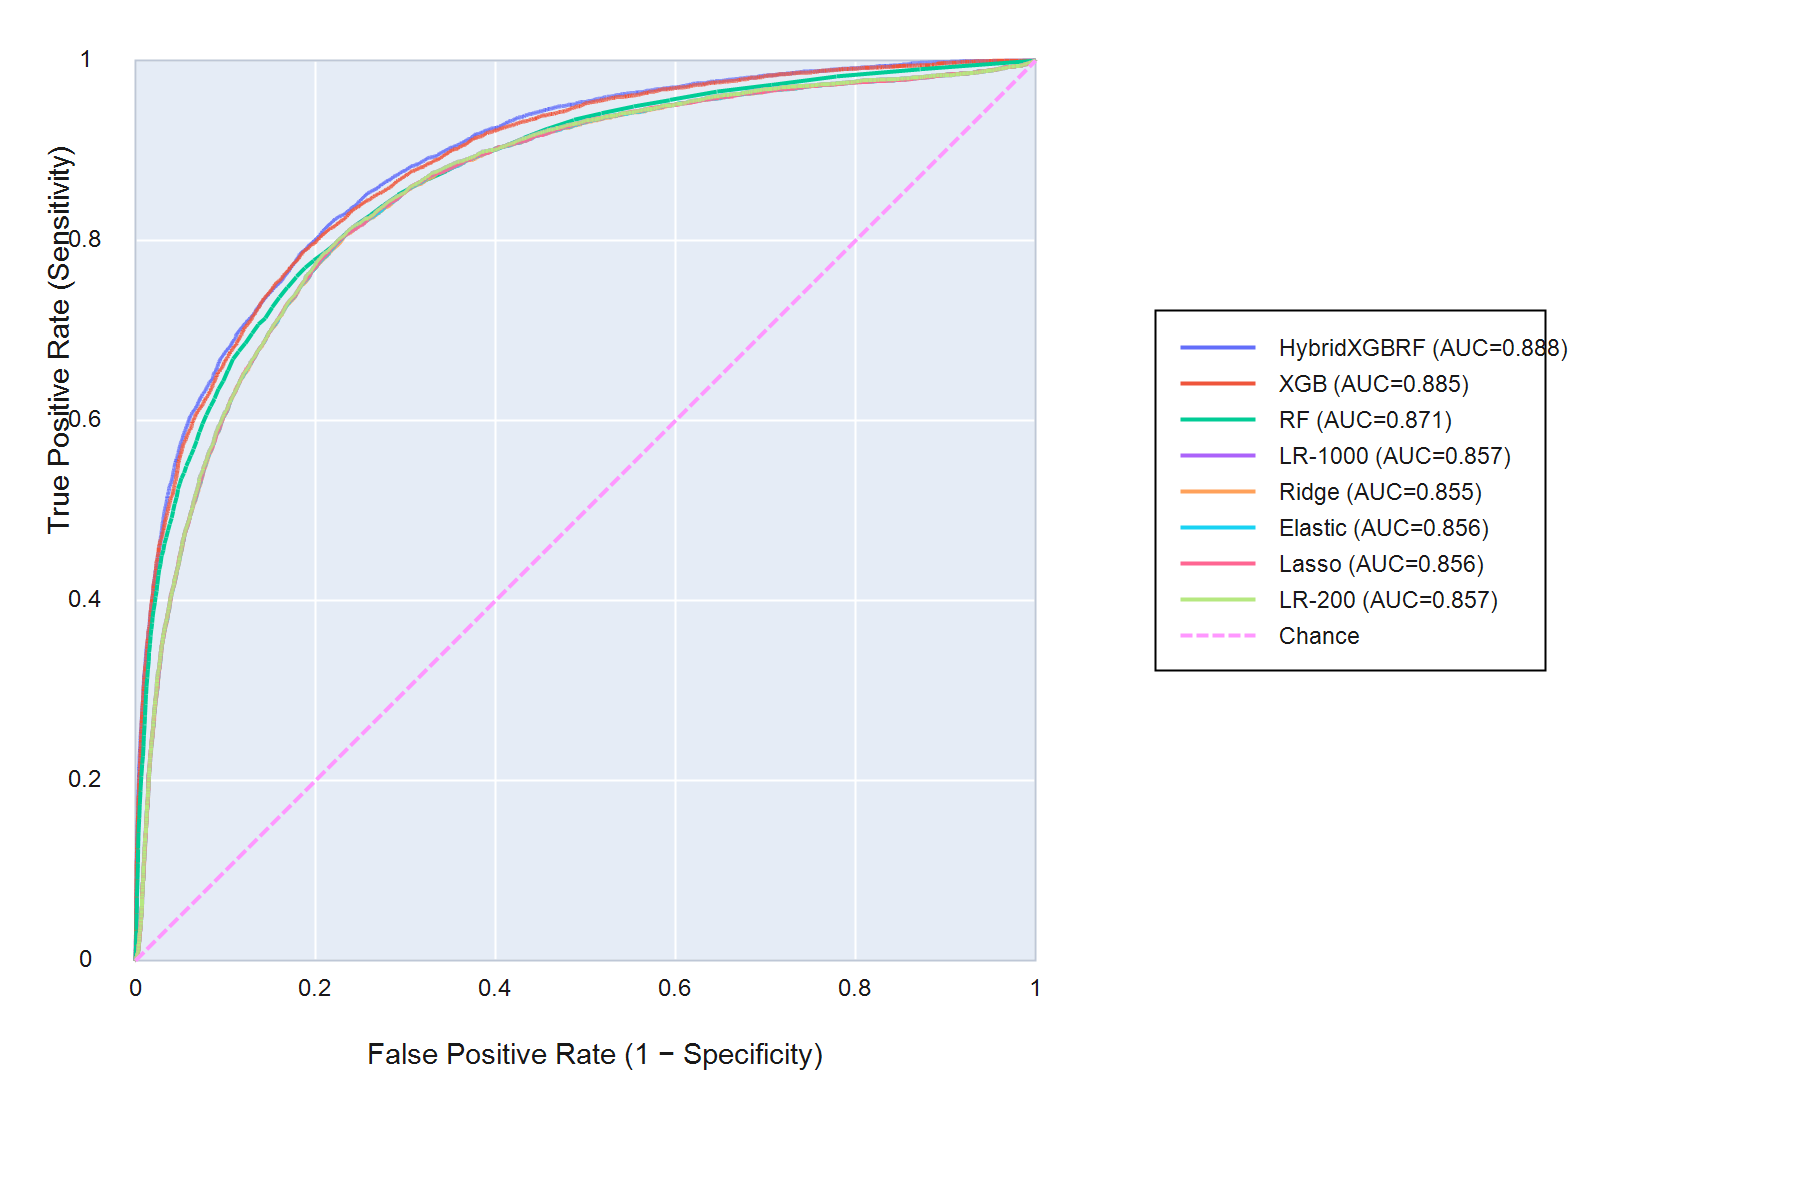
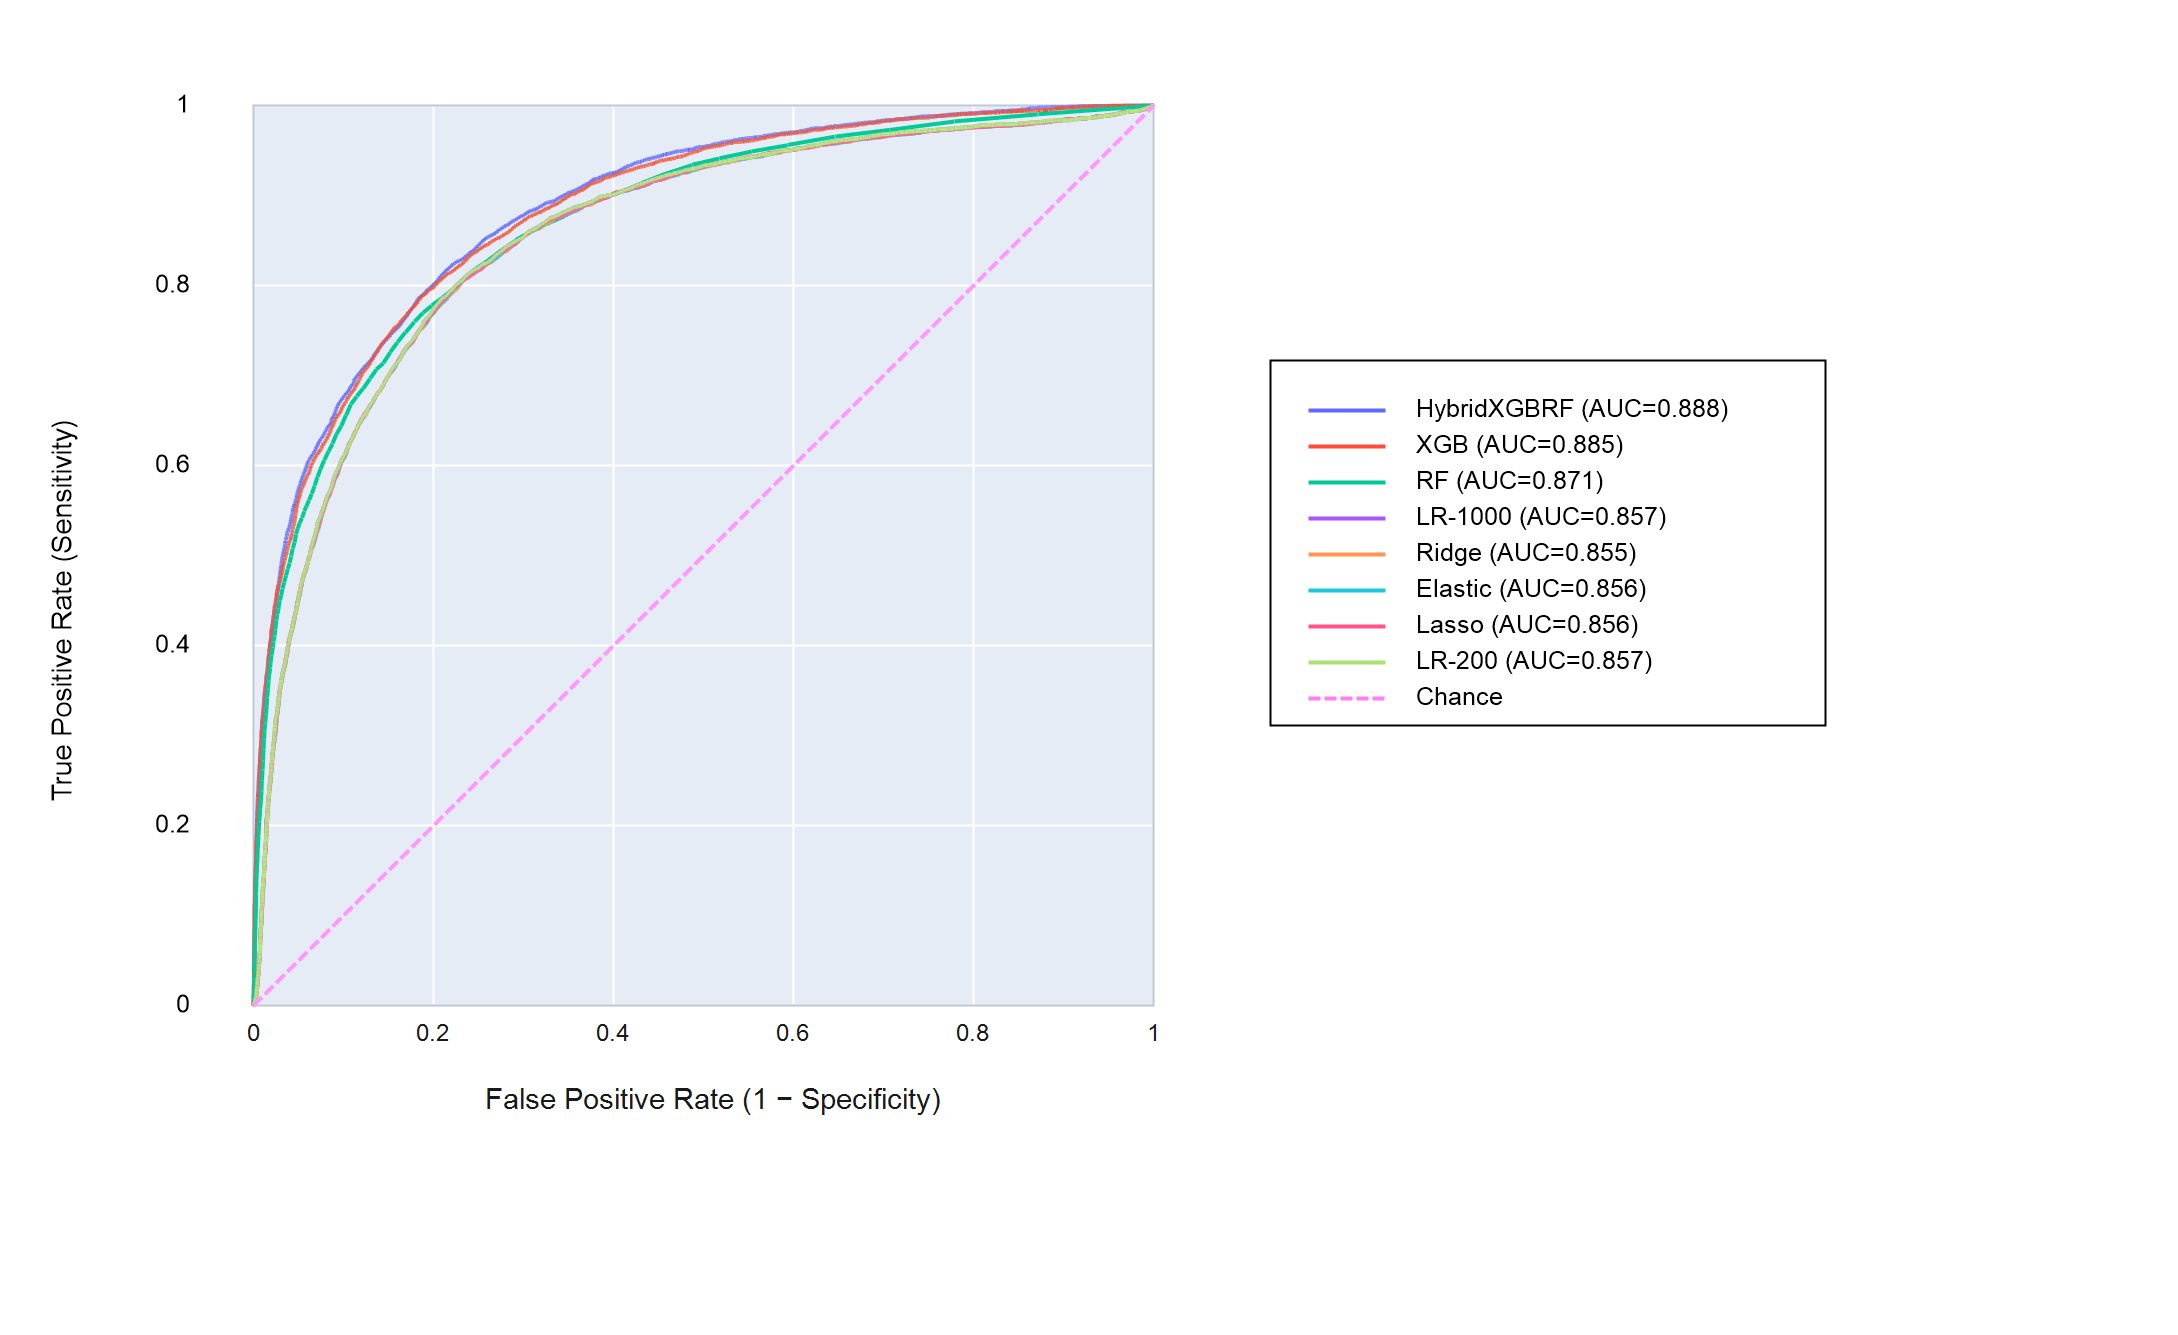
fix AUROC_internal

diff --git a/Revision/20260603/0603_逐條修正結果與圖表對應.md b/Revision/20260603/0603_逐條修正結果與圖表對應.md
@@ -1,7 +1,17 @@
 # 0603 請蔡老師協助部分：逐條修正結果
 
-來源 PDF：`0603_請蔡老師協助的部分.pdf`
-最後完整結果基準：`RESULTS` / `Revision\20260523`，development cohort N = 23,901；external validation N = 6,216；excluded subjects N = 19,756。
+來源 PDF：[0603_請蔡老師協助的部分.pdf](./0603_%E8%AB%8B%E8%94%A1%E8%80%81%E5%B8%AB%E5%8D%94%E5%8A%A9%E7%9A%84%E9%83%A8%E5%88%86.pdf)
+
+最後完整結果基準：[RESULTS](../../RESULTS) / [Revision/20260523](../20260523)，development cohort N = 23,901；external validation N = 6,216；excluded subjects N = 19,756。
+
+資料與程式盤查結果：
+
+- 主要 revision 產出程式：[revision_generate_results.py](../../revision_generate_results.py)
+- 0523 逐題補件產出程式：[generate_0523_revision_outputs.py](../20260523/generate_0523_revision_outputs.py)
+- 原始投稿分析程式：[jubodeath_v9_puredata_paper.py](../../jubodeath_v9_puredata_paper.py)
+- Development cohort Google Sheet：[training_data_1014](https://docs.google.com/spreadsheets/d/1qljyp9lq3QsZ7O2O7FQxm7taEWQi3F3bZgNMcQ7NJeE/edit?usp=sharing)，程式中 worksheet name 為 `training_data_1014`
+- External validation Google Sheet：[external_validation_1014](https://docs.google.com/spreadsheets/d/1NFAhP8NUVsxzEq55siFA0yHvnXY5GWqiKGSOKC4y1Qg/edit?usp=sharing)，程式中 worksheet name 為 `external_validation_1014`
+- 補充資料來源：[DATA/area_size.xlsx](../../DATA/area_size.xlsx)、[Revision/20260516/機構區域與大小.xlsx](../20260516/%E6%A9%9F%E6%A7%8B%E5%8D%80%E5%9F%9F%E8%88%87%E5%A4%A7%E5%B0%8F.xlsx)、[Revision/20260523/analysis_data_filtering_out_included_ADL_missing_0523.csv](../20260523/analysis_data_filtering_out_included_ADL_missing_0523.csv)
 
 ## 1. 排除個案基本 data 分析：補 2 個 P value
 
@@ -14,8 +24,9 @@
 
 對應檔案：
 
-- `0603_added_p_values.csv`
-- `0603_included_vs_excluded_with_added_pvalue_source.xlsx`
+- [0603_added_p_values.csv](./0603_added_p_values.csv)
+- [0603_included_vs_excluded_insufficient_followup_with_p.xlsx](./0603_included_vs_excluded_insufficient_followup_with_p.xlsx)：已由 [RESULTS/tables/included_vs_excluded_insufficient_followup_with_p.xlsx](../../RESULTS/tables/included_vs_excluded_insufficient_followup_with_p.xlsx) 複製到本資料夾，供 0603 修正包直接開啟。
+- 同一表格也可在 [Revision/20260523/included_vs_excluded_insufficient_followup_with_p.xlsx](../20260523/included_vs_excluded_insufficient_followup_with_p.xlsx) 與 [Revision/01_需蔡老師補做資料表/included_vs_excluded_insufficient_followup_with_p.xlsx](../01_%E9%9C%80%E8%94%A1%E8%80%81%E5%B8%AB%E8%A3%9C%E5%81%9A%E8%B3%87%E6%96%99%E8%A1%A8/included_vs_excluded_insufficient_followup_with_p.xlsx) 找到。
 
 ## 2. Calibration plots 加 predicted probability histogram 後，調整軸標題、刻度與圖例順序
 
@@ -23,23 +34,189 @@
 
 對應圖檔：
 
-- `0603_internal_cv_calibration_with_histogram_revised.png`
-- `0603_external_validation_calibration_with_histogram_revised.png`
+- [0603_internal_cv_calibration_with_histogram_revised.png](./0603_internal_cv_calibration_with_histogram_revised.png)
+- [0603_external_validation_calibration_with_histogram_revised.png](./0603_external_validation_calibration_with_histogram_revised.png)
 
 ## 3. Table 3 已更新，抽換後面的 Figure 1 ROC 與 confusion matrix
 
-已用最後版 ROC HTML 內嵌資料重畫 Figure 1，主圖比例改為接近 1:1，X/Y 軸標題改回原投稿版：`False Positive Rate (1 − Specificity)` / `True Positive Rate (Sensitivity)`；右側圖例順序與縮寫、線條顏色均依原始文章版本，只更新 AUC 與曲線數據。
+已用最後版 ROC HTML 內嵌資料重畫 Figure 1，主圖比例改為接近 1:1，X/Y 軸標題改回原投稿版：`False Positive Rate (1 - Specificity)` / `True Positive Rate (Sensitivity)`；右側圖例順序與縮寫、線條顏色均依原始文章版本，只更新 AUC 與曲線數據。
+
+後續檢查發現 AUROC internal 圖的 Y 軸標題與刻度太近、且右側圖例框線裁到第一列文字，因此在同一資料夾內以正式輸出圖檔重新修正：重畫 Y 軸刻度與標題，並放寬圖例框。修圖過程程式碼保留於下方「修圖過程與程式碼」。
 
 Confusion matrix 使用最後完整結果版 PNG，已複製到本資料夾供抽換使用；數值與 Table 3 目前最後版一致。
 
 對應圖檔：
 
-- `0603_Figure1_ROC_internal_cv_revised_1to1.png`
-- `0603_internal_cv_confusion_matrices_final.png`
-- `0603_external_validation_confusion_matrices_final.png`
+- [0603_Figure1_ROC_internal_cv_revised_1to1.png](./0603_Figure1_ROC_internal_cv_revised_1to1.png)
+- [0603_internal_cv_confusion_matrices_final.png](./0603_internal_cv_confusion_matrices_final.png)
+- [0603_external_validation_confusion_matrices_final.png](./0603_external_validation_confusion_matrices_final.png)
+
+## 4. AUROC internal 圖修圖過程與程式碼
+
+修圖流程另存成可開啟的 PowerShell 檔：[0603_fix_AUROC_internal_layout.ps1](./0603_fix_AUROC_internal_layout.ps1)。下方保留逐步修正過程，包含檢查失敗的中間版與最後採用的正式版。
+
+### 4.1 第一次檢查：只加外框白邊
+
+第一次處理先將圖四周加白邊，避免插入 Word/PDF 時外緣被裁切。但檢查後發現 Y 軸標題仍與刻度文字太近，因此此版不作為最後版。
+
+```powershell
+$src = 'c:\GitHub\AI4JUBO\Revision\20260603\0603_Figure1_ROC_internal_cv_revised_1to1.png'
+$backup = 'c:\GitHub\AI4JUBO\Revision\20260603\0603_Figure1_ROC_internal_cv_revised_1to1_original.png'
+
+Add-Type -AssemblyName System.Drawing
+if (-not (Test-Path -LiteralPath $backup)) {
+  Copy-Item -LiteralPath $src -Destination $backup
+}
+
+$img = [System.Drawing.Image]::FromFile($backup)
+$left = 90; $top = 70; $right = 100; $bottom = 100
+$bmp = New-Object System.Drawing.Bitmap ($img.Width + $left + $right), ($img.Height + $top + $bottom)
+$g = [System.Drawing.Graphics]::FromImage($bmp)
+$g.Clear([System.Drawing.Color]::White)
+$g.DrawImage($img, $left, $top, $img.Width, $img.Height)
+$g.Dispose()
+$img.Dispose()
+$bmp.Save($src, [System.Drawing.Imaging.ImageFormat]::Png)
+$bmp.Dispose()
+```
+
+### 4.2 第二次檢查：重畫 Y 軸標題與刻度
+
+第二次改用原始圖作為底圖，裁掉原本太靠左且會重疊的 Y 軸標題與刻度，再重新畫出 Y 軸刻度與標題。檢查後 Y 軸問題已解決，但圖例第一列文字仍被框線裁到。
+
+```powershell
+$src = 'c:\GitHub\AI4JUBO\Revision\20260603\0603_Figure1_ROC_internal_cv_revised_1to1_original.png'
+$out = 'c:\GitHub\AI4JUBO\Revision\20260603\0603_Figure1_ROC_internal_cv_revised_1to1.png'
+
+Add-Type -AssemblyName System.Drawing
+$img = [System.Drawing.Image]::FromFile($src)
+$cropX = 122; $cropY = 0; $cropW = $img.Width - $cropX; $cropH = $img.Height
+$leftPad = 240; $topPad = 45; $rightPad = 90; $bottomPad = 90
+$bmp = New-Object System.Drawing.Bitmap ($leftPad + $cropW + $rightPad), ($topPad + $cropH + $bottomPad)
+$g = [System.Drawing.Graphics]::FromImage($bmp)
+$g.Clear([System.Drawing.Color]::White)
+$g.SmoothingMode = [System.Drawing.Drawing2D.SmoothingMode]::AntiAlias
+$g.InterpolationMode = [System.Drawing.Drawing2D.InterpolationMode]::HighQualityBicubic
+$g.TextRenderingHint = [System.Drawing.Text.TextRenderingHint]::AntiAliasGridFit
+$srcRect = New-Object System.Drawing.Rectangle $cropX, $cropY, $cropW, $cropH
+$dstRect = New-Object System.Drawing.Rectangle $leftPad, $topPad, $cropW, $cropH
+$g.DrawImage($img, $dstRect, $srcRect, [System.Drawing.GraphicsUnit]::Pixel)
+
+$brush = New-Object System.Drawing.SolidBrush ([System.Drawing.Color]::Black)
+$tickFont = New-Object System.Drawing.Font 'Arial', 25, ([System.Drawing.FontStyle]::Regular), ([System.Drawing.GraphicsUnit]::Pixel)
+$labelFont = New-Object System.Drawing.Font 'Arial', 28, ([System.Drawing.FontStyle]::Regular), ([System.Drawing.GraphicsUnit]::Pixel)
+$tickFormat = New-Object System.Drawing.StringFormat
+$tickFormat.Alignment = [System.Drawing.StringAlignment]::Far
+$tickFormat.LineAlignment = [System.Drawing.StringAlignment]::Center
+$labels = @('1','0.8','0.6','0.4','0.2','0')
+$ys = @(60,240,420,600,780,960)
+
+for ($i = 0; $i -lt $labels.Count; $i++) {
+  $rect = New-Object System.Drawing.RectangleF 112, ($topPad + $ys[$i] - 22), 82, 44
+  $g.DrawString($labels[$i], $tickFont, $brush, $rect, $tickFormat)
+}
+
+$labelFormat = New-Object System.Drawing.StringFormat
+$labelFormat.Alignment = [System.Drawing.StringAlignment]::Center
+$labelFormat.LineAlignment = [System.Drawing.StringAlignment]::Center
+$g.TranslateTransform(64, 610)
+$g.RotateTransform(-90)
+$labelRect = New-Object System.Drawing.RectangleF -430, -30, 860, 60
+$g.DrawString('True Positive Rate (Sensitivity)', $labelFont, $brush, $labelRect, $labelFormat)
+$g.ResetTransform()
+
+$labelFormat.Dispose(); $tickFormat.Dispose(); $brush.Dispose()
+$tickFont.Dispose(); $labelFont.Dispose(); $g.Dispose(); $img.Dispose()
+$bmp.Save($out, [System.Drawing.Imaging.ImageFormat]::Png)
+$bmp.Dispose()
+```
+
+### 4.3 最終版：重畫 Y 軸並放寬圖例框
+
+最後一版沿用已修好的 Y 軸處理，另將右側圖例區清白後重畫為較寬的框，避免 `HybridXGBRF (AUC=0.888)` 被右側框線裁切。此版為目前保留的正式圖檔。
+
+```powershell
+$src = 'c:\GitHub\AI4JUBO\Revision\20260603\0603_Figure1_ROC_internal_cv_revised_1to1_original.png'
+$out = 'c:\GitHub\AI4JUBO\Revision\20260603\0603_Figure1_ROC_internal_cv_revised_1to1.png'
+
+Add-Type -AssemblyName System.Drawing
+$img = [System.Drawing.Image]::FromFile($src)
+$cropX = 122; $cropY = 0; $cropW = $img.Width - $cropX; $cropH = $img.Height
+$leftPad = 240; $topPad = 45; $rightPad = 260; $bottomPad = 90
+$bmp = New-Object System.Drawing.Bitmap ($leftPad + $cropW + $rightPad), ($topPad + $cropH + $bottomPad)
+$g = [System.Drawing.Graphics]::FromImage($bmp)
+$g.Clear([System.Drawing.Color]::White)
+$g.SmoothingMode = [System.Drawing.Drawing2D.SmoothingMode]::AntiAlias
+$g.InterpolationMode = [System.Drawing.Drawing2D.InterpolationMode]::HighQualityBicubic
+$g.TextRenderingHint = [System.Drawing.Text.TextRenderingHint]::AntiAliasGridFit
+
+$srcRect = New-Object System.Drawing.Rectangle $cropX, $cropY, $cropW, $cropH
+$dstRect = New-Object System.Drawing.Rectangle $leftPad, $topPad, $cropW, $cropH
+$g.DrawImage($img, $dstRect, $srcRect, [System.Drawing.GraphicsUnit]::Pixel)
+
+$whiteBrush = New-Object System.Drawing.SolidBrush ([System.Drawing.Color]::White)
+$g.FillRectangle($whiteBrush, 1205, 300, 660, 520)
+
+$black = [System.Drawing.Color]::Black
+$brush = New-Object System.Drawing.SolidBrush $black
+$tickFont = New-Object System.Drawing.Font 'Arial', 25, ([System.Drawing.FontStyle]::Regular), ([System.Drawing.GraphicsUnit]::Pixel)
+$labelFont = New-Object System.Drawing.Font 'Arial', 28, ([System.Drawing.FontStyle]::Regular), ([System.Drawing.GraphicsUnit]::Pixel)
+$tickFormat = New-Object System.Drawing.StringFormat
+$tickFormat.Alignment = [System.Drawing.StringAlignment]::Far
+$tickFormat.LineAlignment = [System.Drawing.StringAlignment]::Center
+$labels = @('1','0.8','0.6','0.4','0.2','0')
+$ys = @(60,240,420,600,780,960)
+
+for ($i = 0; $i -lt $labels.Count; $i++) {
+  $rect = New-Object System.Drawing.RectangleF 112, ($topPad + $ys[$i] - 22), 82, 44
+  $g.DrawString($labels[$i], $tickFont, $brush, $rect, $tickFormat)
+}
+
+$labelFormat = New-Object System.Drawing.StringFormat
+$labelFormat.Alignment = [System.Drawing.StringAlignment]::Center
+$labelFormat.LineAlignment = [System.Drawing.StringAlignment]::Center
+$g.TranslateTransform(64, 610)
+$g.RotateTransform(-90)
+$labelRect = New-Object System.Drawing.RectangleF -430, -30, 860, 60
+$g.DrawString('True Positive Rate (Sensitivity)', $labelFont, $brush, $labelRect, $labelFormat)
+$g.ResetTransform()
+
+$legendX = 1270; $legendY = 360; $legendW = 555; $legendH = 365
+$penBlack = New-Object System.Drawing.Pen $black, 2
+$g.DrawRectangle($penBlack, $legendX, $legendY, $legendW, $legendH)
+$legendFont = New-Object System.Drawing.Font 'Arial', 25, ([System.Drawing.FontStyle]::Regular), ([System.Drawing.GraphicsUnit]::Pixel)
+$items = @(
+  @('HybridXGBRF (AUC=0.888)', [System.Drawing.Color]::FromArgb(95,105,255), $false),
+  @('XGB (AUC=0.885)', [System.Drawing.Color]::FromArgb(255,75,60), $false),
+  @('RF (AUC=0.871)', [System.Drawing.Color]::FromArgb(0,200,150), $false),
+  @('LR-1000 (AUC=0.857)', [System.Drawing.Color]::FromArgb(170,85,255), $false),
+  @('Ridge (AUC=0.855)', [System.Drawing.Color]::FromArgb(255,150,80), $false),
+  @('Elastic (AUC=0.856)', [System.Drawing.Color]::FromArgb(25,200,220), $false),
+  @('Lasso (AUC=0.856)', [System.Drawing.Color]::FromArgb(255,85,135), $false),
+  @('LR-200 (AUC=0.857)', [System.Drawing.Color]::FromArgb(170,225,115), $false),
+  @('Chance', [System.Drawing.Color]::FromArgb(255,125,255), $true)
+)
+
+for ($i = 0; $i -lt $items.Count; $i++) {
+  $y = $legendY + 42 + ($i * 36)
+  $pen = New-Object System.Drawing.Pen $items[$i][1], 4
+  if ($items[$i][2]) {
+    $pen.DashStyle = [System.Drawing.Drawing2D.DashStyle]::Dash
+  }
+  $g.DrawLine($pen, $legendX + 38, $y + 8, $legendX + 115, $y + 8)
+  $g.DrawString($items[$i][0], $legendFont, $brush, ($legendX + 142), ($y - 8))
+  $pen.Dispose()
+}
+
+$legendFont.Dispose(); $penBlack.Dispose(); $whiteBrush.Dispose()
+$labelFormat.Dispose(); $tickFormat.Dispose(); $brush.Dispose()
+$tickFont.Dispose(); $labelFont.Dispose(); $g.Dispose(); $img.Dispose()
+$bmp.Save($out, [System.Drawing.Imaging.ImageFormat]::Png)
+$bmp.Dispose()
+```
 
 ## 建議回覆文字
 
 1. We added the missing P values for the institutional region and institution-scale distributions in the included-versus-excluded comparison. The institutional region distribution differed between groups (P < 0.001), whereas the institution-scale distribution did not differ materially (P = 0.926).
 2. We revised the calibration plots to include predicted-probability histograms while aligning the axis labels, tick presentation, and legend order with the revised manuscript figures.
-3. Because Table 3 has been updated, we replaced the ROC curve and confusion-matrix figures with versions based on the final updated model-performance results.
+3. Because Table 3 has been updated, we replaced the ROC curve and confusion-matrix figures with versions based on the final updated model-performance results. The internal AUROC figure was additionally adjusted to prevent the Y-axis label/ticks and legend text from being clipped.